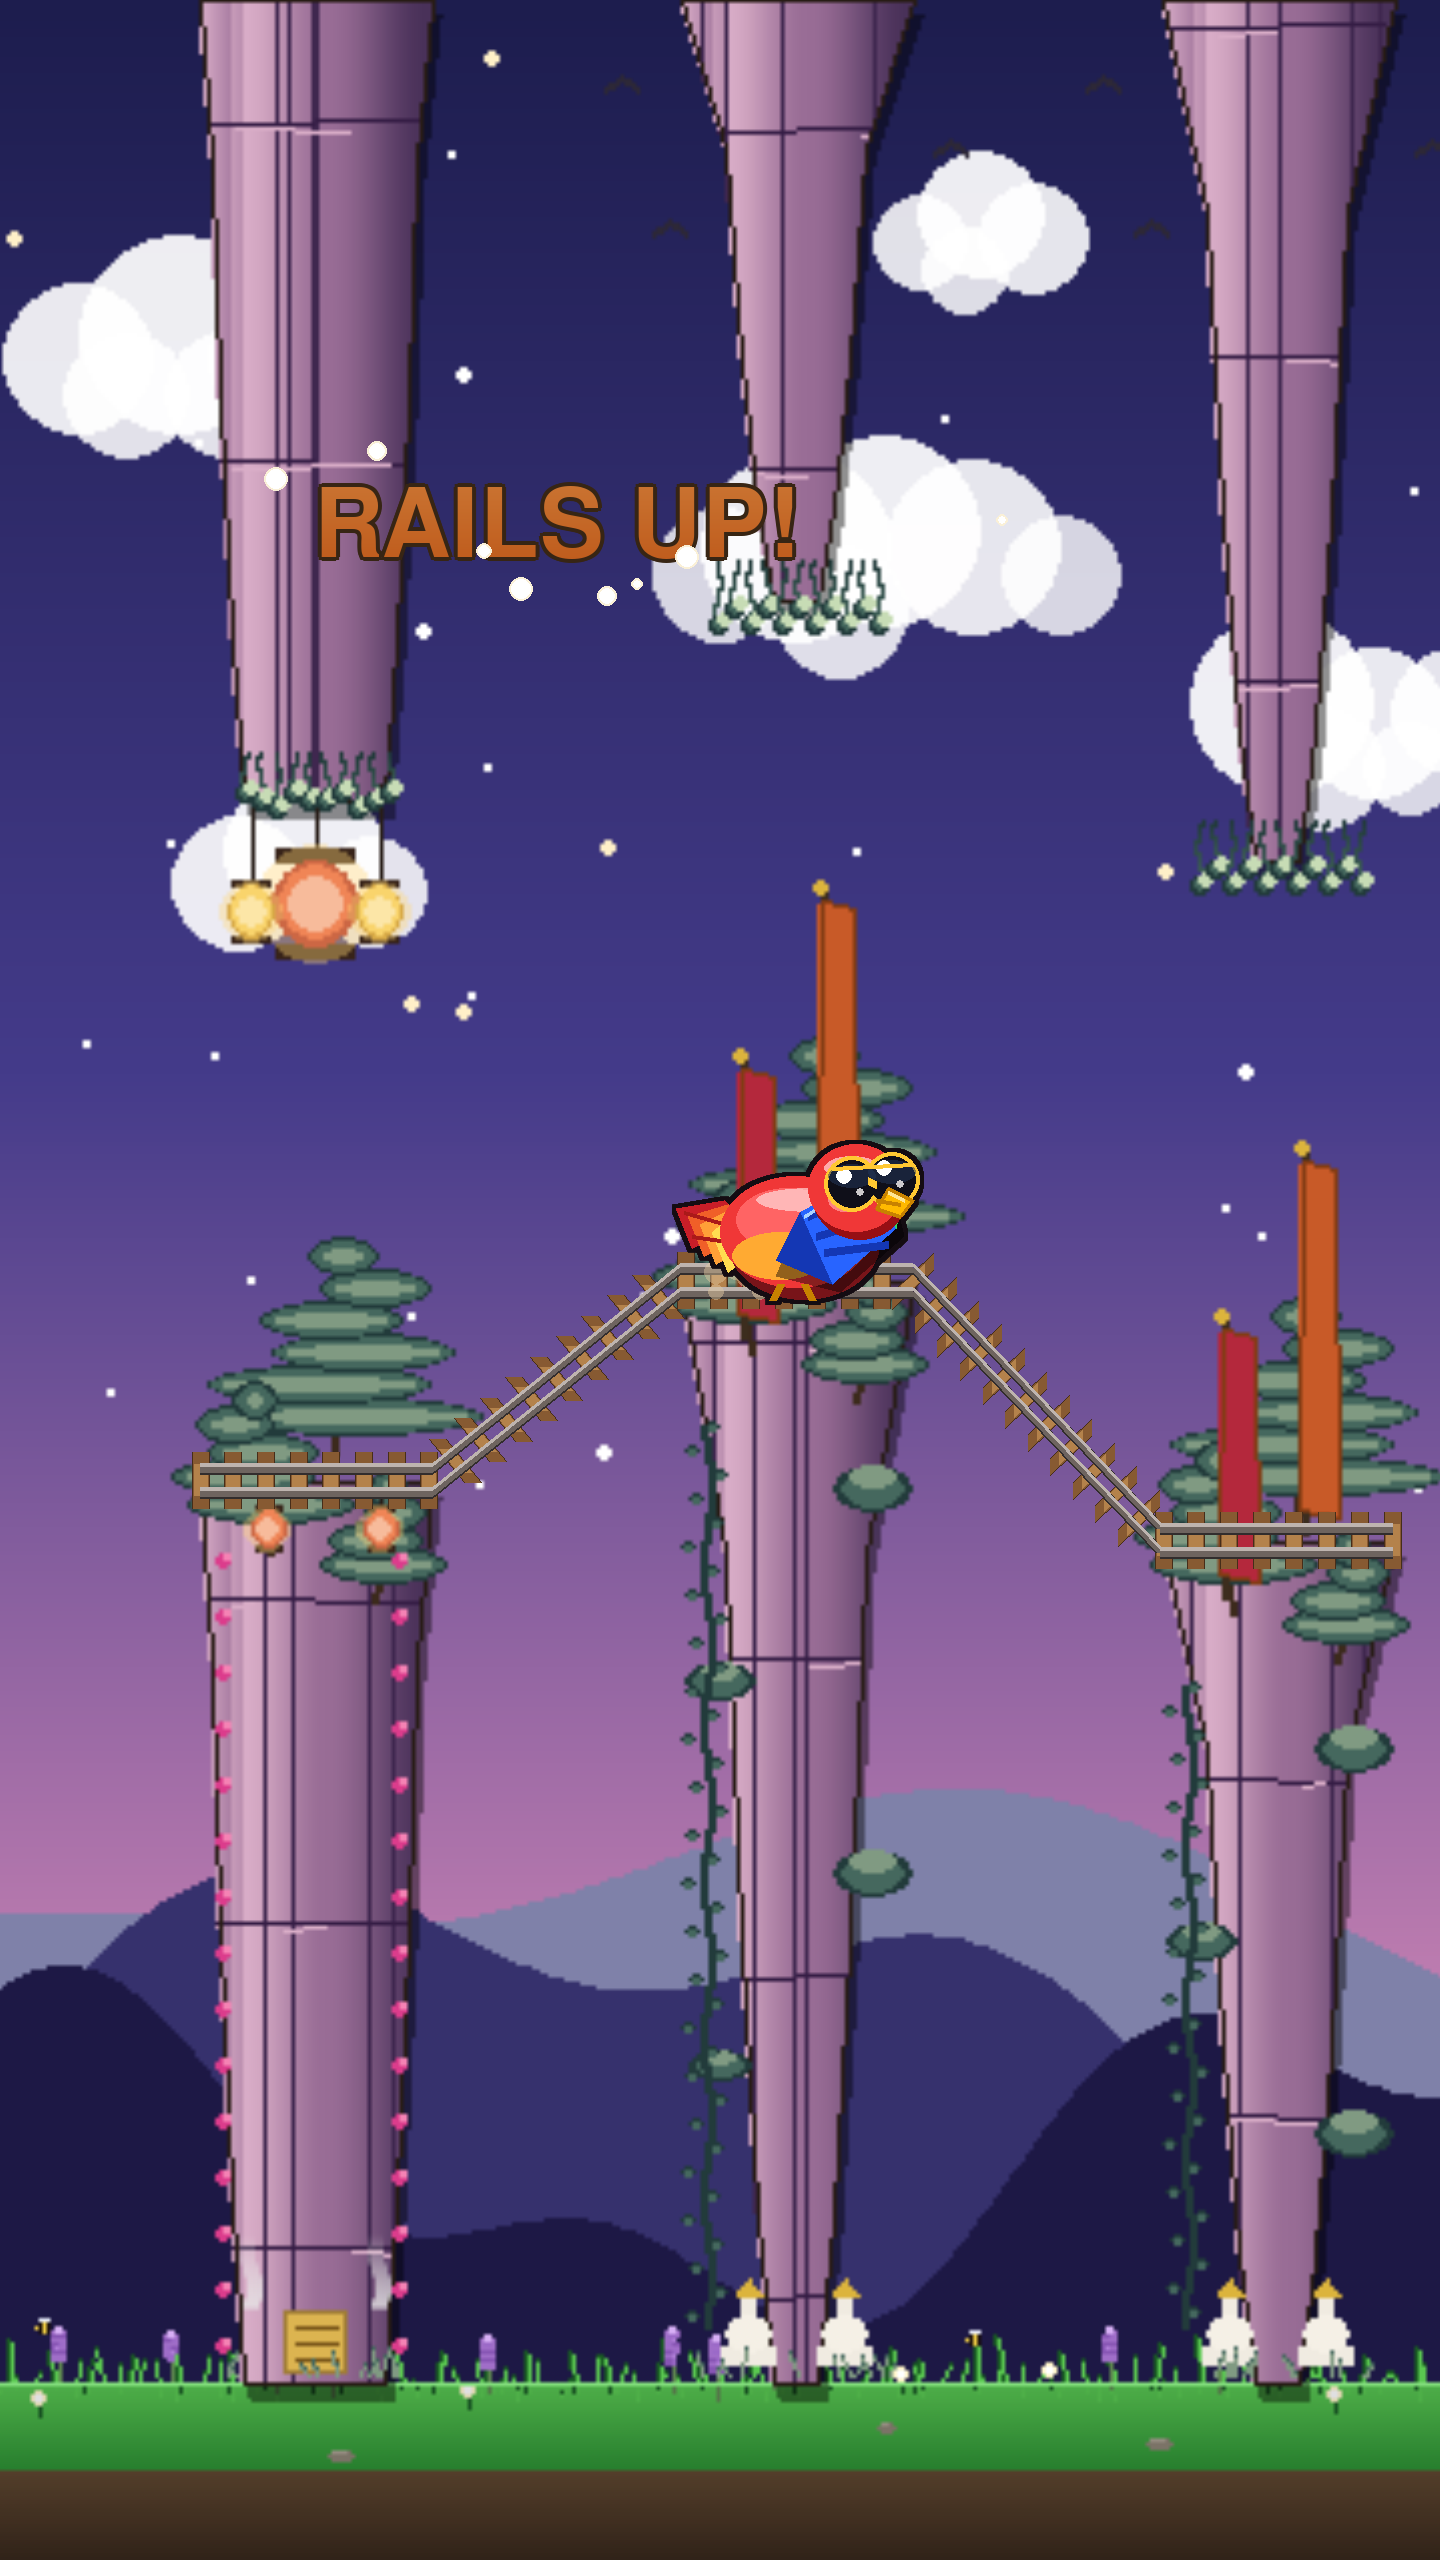
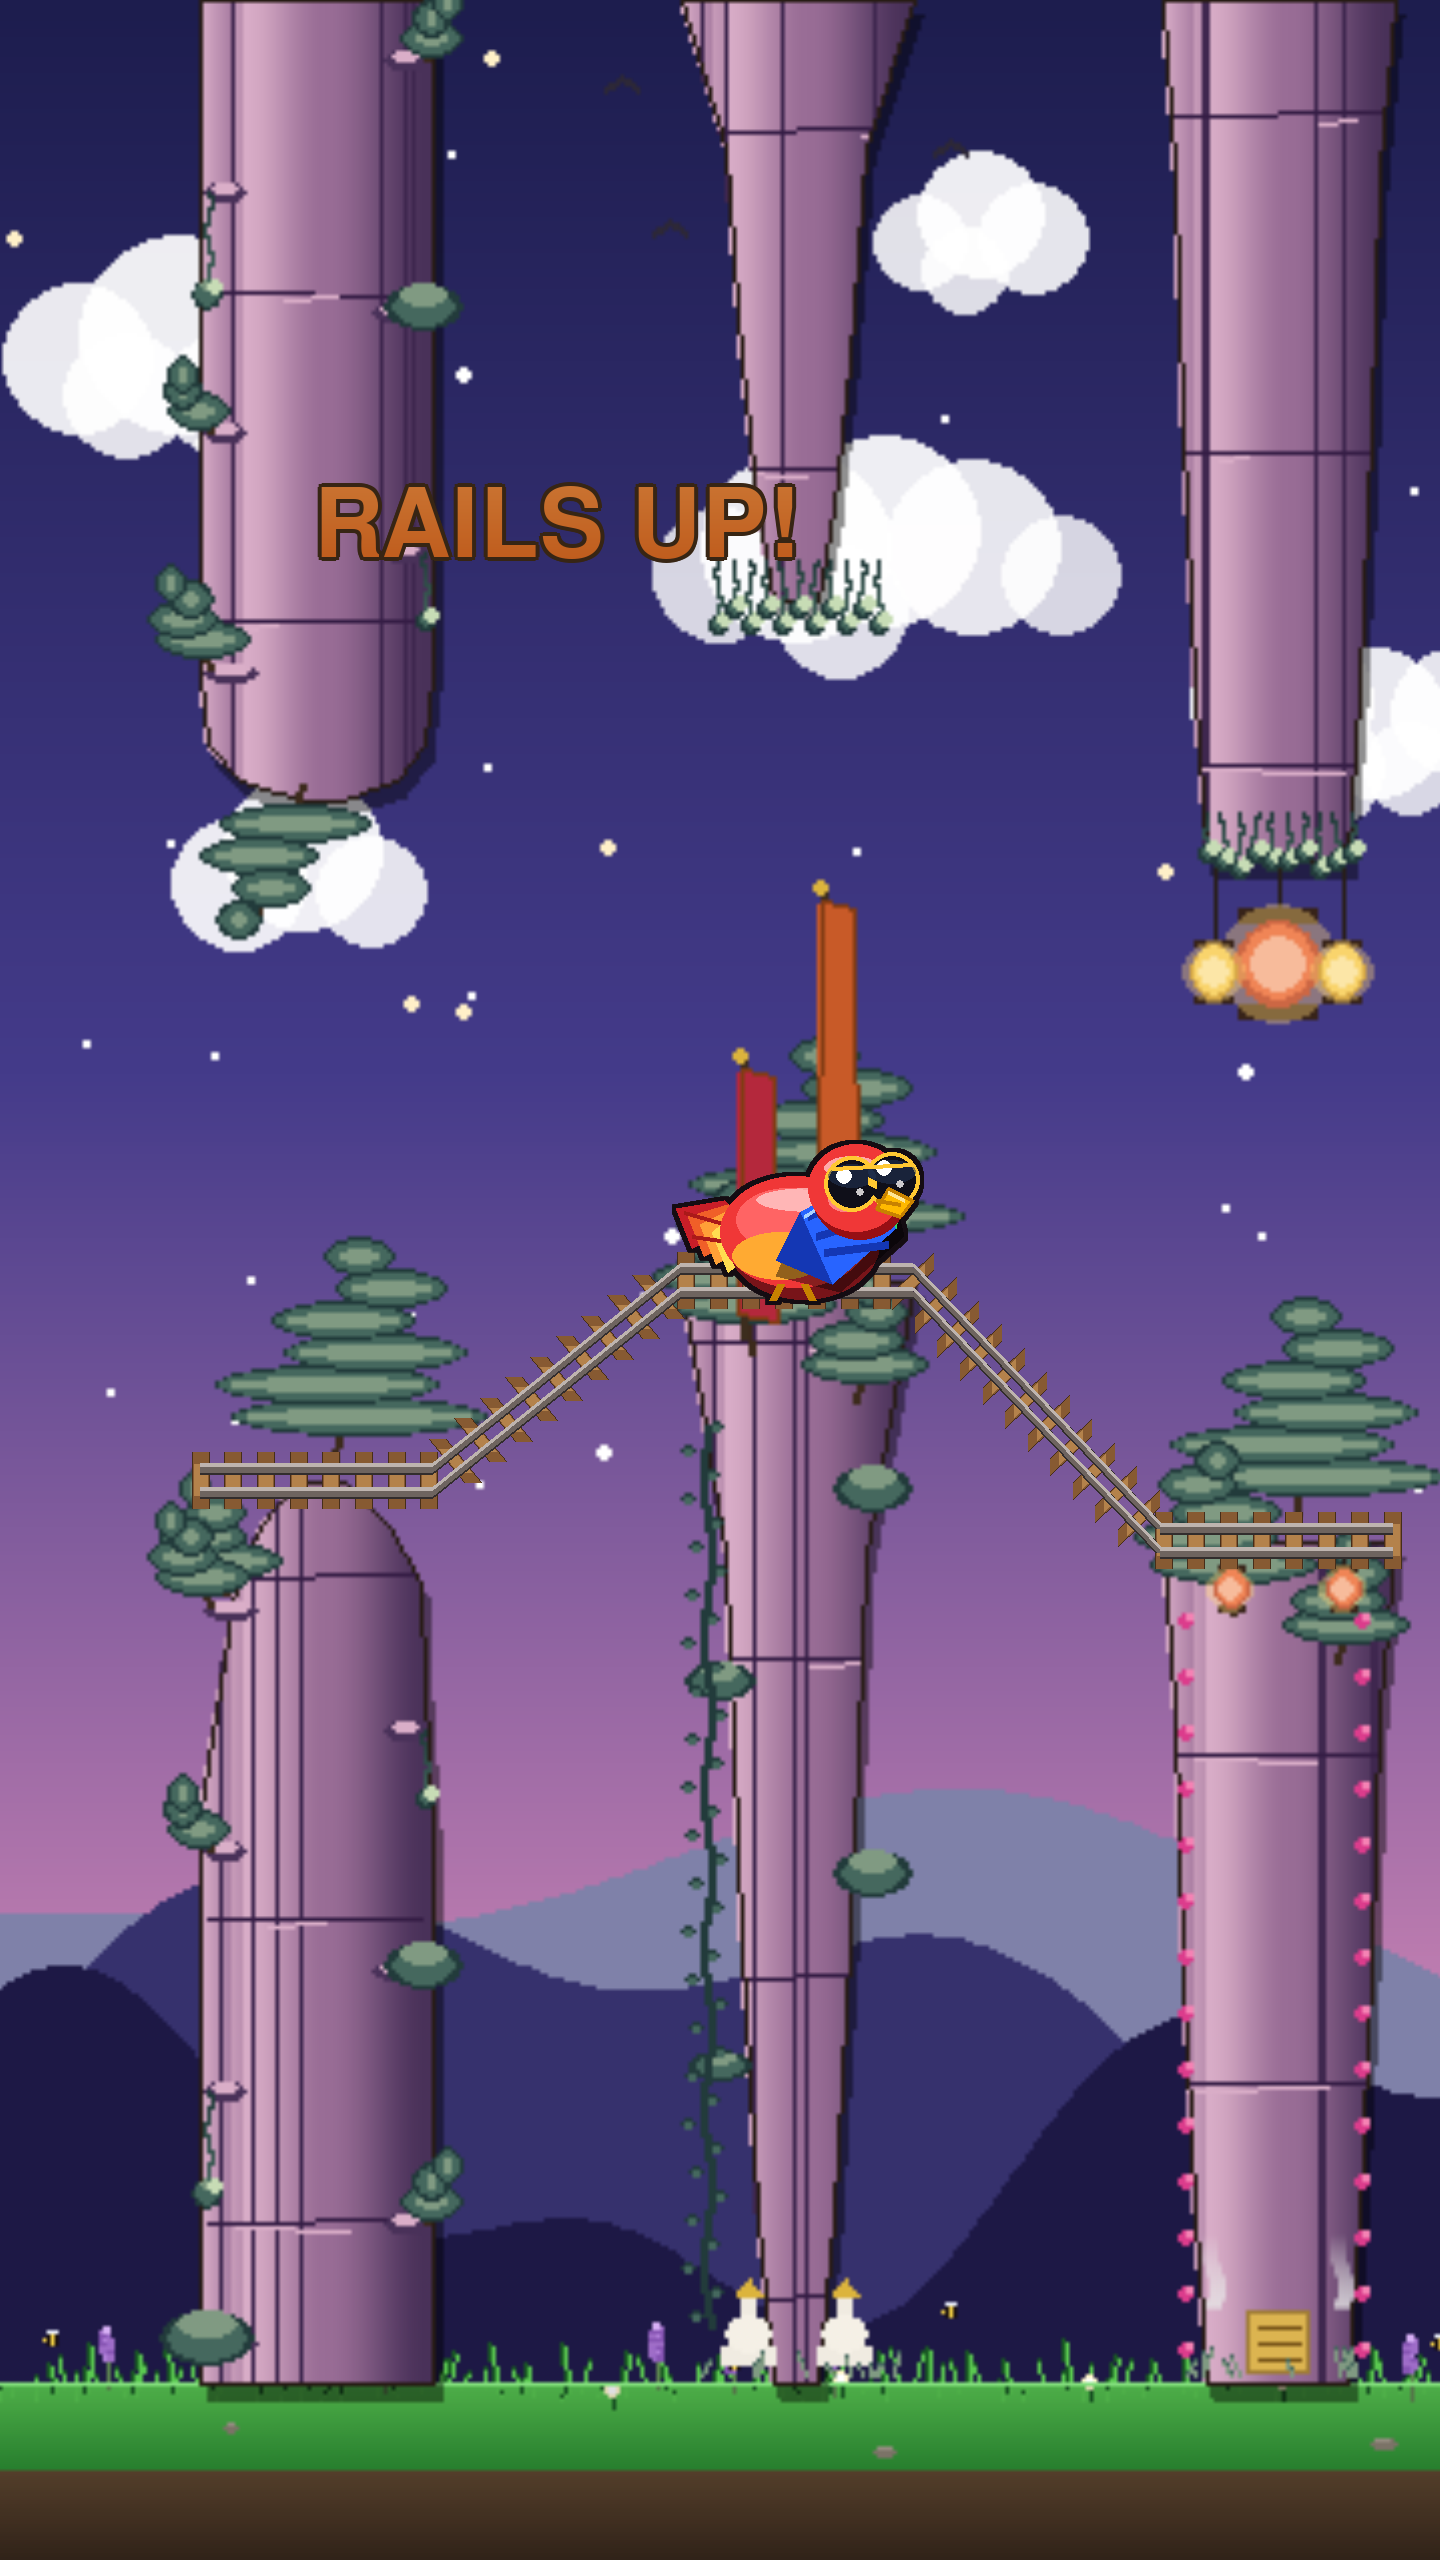
rail-powerup: remove dust particles and label sparkles — zero dots

diff --git a/docs/railway_powerup_design/render_western_real.py b/docs/railway_powerup_design/render_western_real.py
@@ -133,43 +133,10 @@ def paint_rail_hires(surf, pipes):
     for dy in (+2 * SCALE, -4 * SCALE):
         _line(surf, pts, iron_hi, 1 * SCALE, dy=dy)
 
-    # Dust trail behind Pip's feet — on the centre pipe's rail.
-    mid = sorted(pipes, key=lambda p: p.x)[1]
-    feet_x = int((mid.x + PIPE_W / 2) * SCALE)
-    feet_y = int((mid.gap_y + mid.gap_h / 2) * SCALE)
-    dust = pygame.Surface((W2, H2), pygame.SRCALPHA)
-    rng = random.Random(7)
-    for _ in range(10):
-        dx = feet_x + rng.randint(-22, -2) * SCALE
-        dy = feet_y + rng.randint(-3, 4) * SCALE
-        r = rng.randint(2, 3) * SCALE
-        a = rng.randint(110, 180)
-        pygame.draw.circle(dust, (225, 200, 160, a), (dx, dy), r)
-    surf.blit(dust, (0, 0))
-
 
 def _line(surf, pts, color, thickness, *, dy=0):
     shifted = [(x, y + dy) for x, y in pts]
     pygame.draw.lines(surf, color, False, shifted, thickness)
-
-
-def _sample(pts, t):
-    segs, total = [], 0.0
-    for i in range(len(pts) - 1):
-        x0, y0 = pts[i]
-        x1, y1 = pts[i + 1]
-        d = math.hypot(x1 - x0, y1 - y0)
-        segs.append((d, (x0, y0), (x1, y1)))
-        total += d
-    target = t * total
-    acc = 0.0
-    for d, p0, p1 in segs:
-        if acc + d >= target:
-            f = (target - acc) / max(1.0, d)
-            return (int(p0[0] + (p1[0] - p0[0]) * f),
-                    int(p0[1] + (p1[1] - p0[1]) * f))
-        acc += d
-    return pts[-1]
 
 
 def _ties(surf, pts, *, spacing, length, thickness, edge, body, hi):
@@ -206,24 +173,6 @@ def _ties(surf, pts, *, spacing, length, thickness, edge, body, hi):
                 pygame.draw.line(surf, hi, h0, h1, max(1, thickness - 2))
                 break
             acc += d
-
-
-def _spikes(surf, pts, *, spacing, offset, radius, dark, hi):
-    segs, total = [], 0.0
-    for i in range(len(pts) - 1):
-        x0, y0 = pts[i]
-        x1, y1 = pts[i + 1]
-        d = math.hypot(x1 - x0, y1 - y0)
-        segs.append((d, (x0, y0), (x1, y1)))
-        total += d
-    n = max(1, int(total / spacing))
-    for k in range(n + 1):
-        rx, ry = _sample(pts, k / n)
-        for sign in (-1, 1):
-            pygame.draw.circle(surf, dark, (rx, ry + sign * offset), radius)
-            pygame.draw.circle(surf, hi,
-                               (rx - radius // 2, ry + sign * offset - radius // 2),
-                               max(1, radius // 2))
 
 
 # ──────────────────────────────────────────────────────────────────────────────
@@ -264,17 +213,6 @@ def paint_label_hires(surf, pipes):
                    (off - 1, -off + 1), (off - 1, off - 1)):
         surf.blit(outline, (label_x - bw // 2 + ox, label_y - bh // 2 + oy))
     surf.blit(body, (label_x - bw // 2, label_y - bh // 2))
-
-    # 8 sparkles around the label.
-    cream = (250, 240, 215)
-    rng = random.Random(hash(text) & 0xFFFF)
-    for _ in range(8):
-        sx = label_x + rng.randint(-bw, bw)
-        sy = label_y + rng.randint(-bh, bh)
-        r = rng.randint(3, 6) * SCALE // 2
-        pygame.draw.circle(surf, cream, (sx, sy), r)
-        pygame.draw.circle(surf, (255, 255, 255), (sx, sy),
-                           max(1, r - SCALE // 2))
 
 
 # ──────────────────────────────────────────────────────────────────────────────
